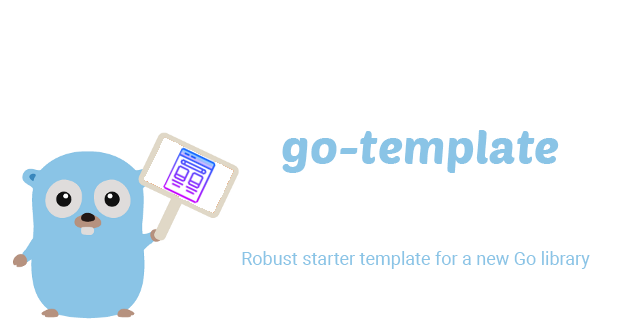
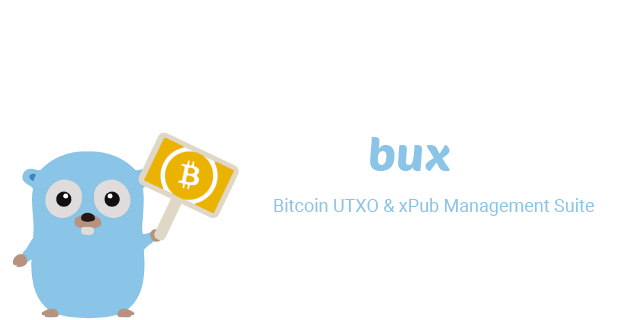
Initial commit - using go-template

diff --git a/controller.go b/controller.go
@@ -1,10 +1,10 @@
-// Package template is Golang starter template for new Go libraries
+// Package controller is BUX kubernetes controller
 //
 // If you have any suggestions or comments, please feel free to open an issue on
 // this GitHub repository!
 //
-// By MrZ (https://github.com/mrz1836)
-package template
+// By BuxOrg (https://github.com/BuxOrg)
+package controller
 
 // Greet will say hi!
 func Greet() string {

diff --git a/controller_test.go b/controller_test.go
@@ -1,4 +1,4 @@
-package template
+package controller
 
 import (
 	"testing"

diff --git a/README.md b/README.md
@@ -1,14 +1,14 @@
-# go-template
-> Robust starter template for a new Go library
+# BUX: Kubernetes Controller
+> Manage your BUX deployments using Kubernetes
 
-[![Release](https://img.shields.io/github/release-pre/mrz1836/go-template.svg?logo=github&style=flat&v=1)](https://github.com/mrz1836/go-template/releases)
-[![Build Status](https://img.shields.io/github/workflow/status/mrz1836/go-template/run-go-tests?logo=github&v=1)](https://github.com/mrz1836/go-template/actions)
-[![Report](https://goreportcard.com/badge/github.com/mrz1836/go-template?style=flat&v=1)](https://goreportcard.com/report/github.com/mrz1836/go-template)
-[![codecov](https://codecov.io/gh/mrz1836/go-template/branch/master/graph/badge.svg?v=1)](https://codecov.io/gh/mrz1836/go-template)
-[![Mergify Status](https://img.shields.io/endpoint.svg?url=https://gh.mergify.io/badges/mrz1836/go-template&style=flat&v=1)](https://mergify.io)
-[![Go](https://img.shields.io/github/go-mod/go-version/mrz1836/go-template?v=1)](https://golang.org/)
+[![Release](https://img.shields.io/github/release-pre/BuxOrg/bux-kube-controller.svg?logo=github&style=flat&v=1)](https://github.com/BuxOrg/bux-kube-controller/releases)
+[![Build Status](https://img.shields.io/github/workflow/status/BuxOrg/bux-kube-controller/run-go-tests?logo=github&v=1)](https://github.com/BuxOrg/bux-kube-controller/actions)
+[![Report](https://goreportcard.com/badge/github.com/BuxOrg/bux-kube-controller?style=flat&v=1)](https://goreportcard.com/report/github.com/BuxOrg/bux-kube-controller)
+[![codecov](https://codecov.io/gh/BuxOrg/bux-kube-controller/branch/master/graph/badge.svg?v=1)](https://codecov.io/gh/BuxOrg/bux-kube-controller)
+[![Mergify Status](https://img.shields.io/endpoint.svg?url=https://gh.mergify.io/badges/BuxOrg/bux-kube-controller&style=flat&v=1)](https://mergify.io)
+[![Go](https://img.shields.io/github/go-mod/go-version/BuxOrg/bux-kube-controller?v=1)](https://golang.org/)
 <br>
-[![Gitpod Ready-to-Code](https://img.shields.io/badge/Gitpod-ready--to--code-blue?logo=gitpod)](https://gitpod.io/#https://github.com/mrz1836/go-template)
+[![Gitpod Ready-to-Code](https://img.shields.io/badge/Gitpod-ready--to--code-blue?logo=gitpod)](https://gitpod.io/#https://github.com/BuxOrg/bux-kube-controller)
 [![standard-readme compliant](https://img.shields.io/badge/readme%20style-standard-brightgreen.svg?style=flat)](https://github.com/RichardLitt/standard-readme)
 [![Makefile Included](https://img.shields.io/badge/Makefile-Supported%20-brightgreen?=flat&logo=probot)](Makefile)
 [![Sponsor](https://img.shields.io/badge/sponsor-mrz1836-181717.svg?logo=github&style=flat&v=1)](https://github.com/sponsors/mrz1836)
@@ -17,7 +17,6 @@
 <br/>
 
 ## Table of Contents
-- [About](#about)
 - [Installation](#installation)
 - [Documentation](#documentation)
 - [Examples & Tests](#examples--tests)
@@ -29,60 +28,19 @@
 
 <br/>
 
-## About
-This is a GitHub repository starter template for a Go library. It has been created for anyone who wants to:
-
-- Quickly get into Go without losing too much time on environment setup
-- Create a new repository with basic Continuous Integration
-- Cheat codes for all the popular Go patterns
-- **[See: All 15+ Repository Features](#documentation)**
-
-<br/>
-
 ## Installation
 
 **go-template** requires a [supported release of Go](https://golang.org/doc/devel/release.html#policy).
 ```shell script
-go get -u github.com/mrz1836/go-template
+go get -u github.com/BuxOrg/bux-kube-controller
 ```
 
 <br/>
 
-<!-- remove-this-section:start -->
-
-#### Template Instructions (Temporary Section)
-1. Sign up on [Codecov](https://codecov.io/) and configure [Codecov GitHub Application](https://github.com/apps/codecov) for all repositories
-2. Click the `Use this template` button (alt. clone or download this repository)
-3. Replace all occurrences of `mrz1836/go-template` to `your_org/repo_name` in all files
-4. Replace all occurrences of `go-template` to `repo_name` in all files
-5. Replace all occurrences of `mrz1836` to `repo_owner` in all files
-6. Remove or update the [`go-share-image.png`](.github/IMAGES/go-share-image.png) and add to your Github repo (in settings)
-7. Update the following files:
-    - [LICENSE](LICENSE)
-    - [README.md](README.md)
-    - [SECURITY.md](.github/SECURITY.md)
-
-#### (Optional) Slack Message on New Release
-1. Create a new [Incoming Webhook](https://api.slack.com/messaging/webhooks)
-2. Set an environment variable in Github: `SLACK_WEBHOOK`
-
-#### (Optional) Discord, Twitter or Reddit on New Release
-Follow the instructions on [GoReleaser's documentation](https://goreleaser.com/customization/announce/#discord)
-
-#### (Optional) Set up: All Contributors Integration
-1. Follow these [instructions](https://allcontributors.org/docs/en/bot/installation)
-2. Install the local CLI: `make install-all-contributors`
-3. Modify the [.all-contributorsrc](.all-contributorsrc) file
-4. Run `make update-contributors` to update the list of contributors
-
-<br/>
-
-<!-- remove-this-section:end -->
-
 ## Documentation
-View the generated [documentation](https://pkg.go.dev/github.com/mrz1836/go-template)
+View the generated [documentation](https://pkg.go.dev/github.com/BuxOrg/bux-kube-controller)
 
-[![GoDoc](https://godoc.org/github.com/mrz1836/go-template?status.svg&style=flat&v=1)](https://pkg.go.dev/github.com/mrz1836/go-template)
+[![GoDoc](https://godoc.org/github.com/BuxOrg/bux-kube-controller?status.svg&style=flat&v=1)](https://pkg.go.dev/github.com/BuxOrg/bux-kube-controller)
 
 <br/>
 
@@ -203,7 +161,7 @@ vet                           Run the Go vet application
 <br/>
 
 ## Examples & Tests
-All unit tests and [examples](examples) run via [Github Actions](https://github.com/mrz1836/go-template/actions) and
+All unit tests and [examples](examples) run via [Github Actions](https://github.com/BuxOrg/bux-kube-controller/actions) and
 uses [Go version 1.16.x](https://golang.org/doc/go1.16). View the [configuration file](.github/workflows/run-tests.yml).
 
 <br/>
@@ -251,7 +209,7 @@ The most basic way to show your support is to star :star2: the project, or to ra
 You can also support this project by [becoming a sponsor on GitHub](https://github.com/sponsors/mrz1836) :clap:
 or by making a [**bitcoin donation**](https://gobitcoinsv.com/#sponsor?utm_source=github&utm_medium=sponsor-link&utm_campaign=go-template&utm_term=go-template&utm_content=go-template) to ensure this journey continues indefinitely! :rocket:
 
-[![Stars](https://img.shields.io/github/stars/mrz1836/go-template?label=Please%20like%20us&style=social)](https://github.com/mrz1836/go-template/stargazers)
+[![Stars](https://img.shields.io/github/stars/BuxOrg/bux-kube-controller?label=Please%20like%20us&style=social)](https://github.com/BuxOrg/bux-kube-controller/stargazers)
 
 <br/>
 
@@ -263,7 +221,8 @@ Thank you to these wonderful people ([emoji key](https://allcontributors.org/doc
 <!-- markdownlint-disable -->
 <table>
   <tr>
-    <td align="center"><a href="https://mrz1818.com"><img src="https://avatars.githubusercontent.com/u/3743002?v=4?s=100" width="100px;" alt=""/><br /><sub><b>Mr. Z</b></sub></a><br /><a href="#infra-mrz1836" title="Infrastructure (Hosting, Build-Tools, etc)">🚇</a> <a href="https://github.com/mrz1836/go-template/commits?author=mrz1836" title="Code">💻</a> <a href="#maintenance-mrz1836" title="Maintenance">🚧</a> <a href="#security-mrz1836" title="Security">🛡</a></td>
+    <td align="center"><a href="https://mrz1818.com"><img src="https://avatars.githubusercontent.com/u/3743002?v=4?s=100" width="100px;" alt=""/><br /><sub><b>Mr. Z</b></sub></a><br /><a href="#infra-mrz1836" title="Infrastructure (Hosting, Build-Tools, etc)">🚇</a> <a href="https://github.com/BuxOrg/bux-kube-controller/commits?author=mrz1836" title="Code">💻</a> <a href="#maintenance-mrz1836" title="Maintenance">🚧</a> <a href="#security-mrz1836" title="Security">🛡</a></td>
+    <td align="center"><a href="https://github.com/galt-tr"><img src="https://avatars.githubusercontent.com/u/64976002?v=4?s=100" width="100px;" alt=""/><br /><sub><b>Dylan</b></sub></a><br /><a href="#infra-galt-tr" title="Infrastructure (Hosting, Build-Tools, etc)">🚇</a> <a href="#maintenance-galt-tr" title="Maintenance">🚧</a> <a href="https://github.com/BuxOrg/bux-kube-controller/commits?author=galt-tr" title="Code">💻</a></td>
   </tr>
 </table>
 
@@ -278,4 +237,4 @@ Thank you to these wonderful people ([emoji key](https://allcontributors.org/doc
 
 ## License
 
-[![License](https://img.shields.io/github/license/mrz1836/go-template.svg?style=flat&v=1)](LICENSE)
+[![License](https://img.shields.io/github/license/BuxOrg/bux-kube-controller.svg?style=flat&v=1)](LICENSE)

diff --git a/.github/SECURITY.md b/.github/SECURITY.md
@@ -8,7 +8,7 @@
 
 Vulnerabilities can be reported by getting in touch with the project stakeholder(s):
 
-- [project maintainers](mailto:mrz1818@pm.me)
+- [project maintainers](mailto:security@getbux.io)
 
 Please include the requested information listed below (as much as you can provide) to help us better understand the nature and scope of the possible issue:
 
